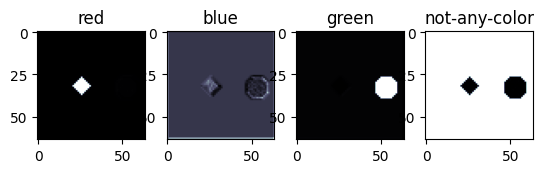
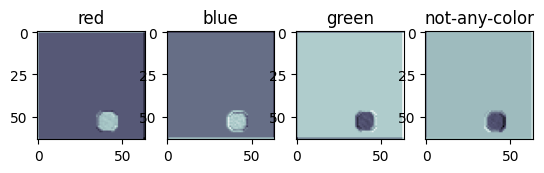
update

diff --git a/mvcl/percept/metanet.py b/mvcl/percept/metanet.py
@@ -14,6 +14,7 @@ from .propagation import GraphPropagation
 from .competition import Competition
 
 from .backbones import ResidualDenseNetwork, FeatureMapEncoder
+from rinarak.dklearn.cv.unet import UNet
 
 from rinarak.utils.tensor import gather_tensor, stats_summary, weighted_softmax, logit
 from torch_sparse import SparseTensor
@@ -102,6 +103,8 @@ class MetaNet(nn.Module):
         rdn_args = SimpleNamespace(g0=latent_dim  ,RDNkSize=3,n_colors=config.channel_dim,
                                RDNconfig=(4,3,16),scale=[2],no_upsampling=True)
         self.backbone = ResidualDenseNetwork(latent_dim)
+        #UNet(n_channels = config.channel_dim, n_classes = latent_dim, bilinear = True)
+        #ResidualDenseNetwork(latent_dim)
         #FeatureMapEncoder(config.channel_dim, z_dim = latent_dim)
         #RDN(rdn_args)
 
@@ -117,7 +120,7 @@ class MetaNet(nn.Module):
 
         """graph propagation on the grid and masks extraction"""
         self.propagator = GraphPropagation(num_iters = num_prop_itrs)
-        self.competition = Competition(num_masks = 10)
+        self.competition = Competition(num_masks = num_masks)
         
         kq_dim = 132
         self.ks_map = nn.Linear(latent_dim, kq_dim)
@@ -181,7 +184,10 @@ class MetaNet(nn.Module):
             y_features = torch.gather(flatten_qs, dim = 1, index = y_indices)
 
             """Calculate the logits between each node pairs"""
+
             logits = (x_features * y_features).sum(dim = -1) * (D ** -0.5)
+            #logits = 0.3 * ( (x_features.long() == 1.) .sum(dim = -1) ) .float()
+
             logits = logits.reshape([B,N,K])
 
             #all_logits.append(logits)
@@ -217,8 +223,13 @@ class MetaNet(nn.Module):
         v_seg = torch.gather(segment_targets, 1, v_indices)
 
         """Calculate the true connecivity between pairs of indices"""
+        import matplotlib.pyplot as plt
         valid_mask = u_seg != 0
-        connectivity = (u_seg == v_seg) #* valid_mask
+
+        #u_seg = u_seg != 0
+        #v_seg = v_seg != 0
+
+        connectivity = (u_seg == v_seg) * valid_mask
         connectivity = logit(connectivity)
         #connectivity = torch.softmax(connectivity, dim = -1)
         #y_true = connectivity / connectivity.max(-1, keepdim = True)[0]

diff --git a/main.py b/main.py
@@ -21,7 +21,7 @@ import torch.nn as nn
 dataset_dir = "/Users/melkor/Documents/datasets"
 
 argparser = argparse.ArgumentParser()
-argparser.add_argument("--expr_name",                   default = "KFT")
+argparser.add_argument("--expr_name",                   default = "KFT-UNet")
 argparser.add_argument("--dataset_dir",                 default = dataset_dir)
 # [Experiment configuration]
 argparser.add_argument("--domain_name",                 default = "demo")
@@ -35,11 +35,11 @@ argparser.add_argument("--optimizer",                   default = "Adam")
 argparser.add_argument("--lr",                          default = 2e-4)
 
 # [Elaborated training details]
-argparser.add_argument("--freeze_perception",           default = True)
-argparser.add_argument("--freeze_knowledge",            default = False)
+argparser.add_argument("--freeze_perception",           default = False)
+argparser.add_argument("--freeze_knowledge",            default = True)
 
 # [Save checkpoints at dir...]
-argparser.add_argument("--ckpt_itrs",                   default = 10)
+argparser.add_argument("--ckpt_itrs",                   default = 100)
 argparser.add_argument("--ckpt_dir",                    default = "checkpoints")
 argparser.add_argument("--load_ckpt_knowledge",         default = False)
 argparser.add_argument("--load_ckpt_percept",           default = False)

diff --git a/datasets/gestalt_dataset.py b/datasets/gestalt_dataset.py
@@ -1,0 +1,46 @@
+'''
+ # @ Author: Zongjing Li
+ # @ Create Time: 2024-02-25 02:44:44
+ # @ Modified by: Zongjing Li
+ # @ Modified time: 2024-02-25 02:44:57
+ # @ Description: This file is distributed under the MIT license.
+'''
+
+import torch
+from torch.utils.data import Dataset, DataLoader
+
+import numpy as np
+import matplotlib.pyplot as plt
+
+class GestaltGridPointDataset(Dataset):
+    def __init__(self, split = "train"):
+        super().__init__()
+    
+    def __len__(self): return 1
+
+    def __getitem__(self, idx):
+        return idx
+
+def grid_layout(resolution, dx, dy):
+    """generate a grid layout for the point
+    Args:
+        resolution: the input points grid size.
+        dx, dy: the difference between point pairs.
+    """
+    W, H = resolution[0], resolution[1]
+    x = torch.linspace(0, W - 1, W) * dx
+    y = torch.linspace(0, H - 1, H) * dy
+    x = x / x.max()
+    y = y / y.max()
+    grid_x, grid_y = torch.meshgrid([x, y])
+    grid = torch.cat([grid_x[..., None], grid_y[..., None]], dim = -1)
+    return grid
+
+if __name__ == "__main__":
+    # generate Gesltatl dataset
+    import os
+
+    grid = grid_layout([8, 8], 0.5, 1.)
+    plt.figure("figure", figsize = (5,4))
+    plt.scatter(grid[...,0], grid[..., 1])
+    plt.show()

diff --git a/grouping.py b/grouping.py
@@ -1,0 +1,50 @@
+from mvcl.percept.propagation import *
+from mvcl.percept.competition import *
+from mvcl.percept.metanet import generate_local_indices, MetaNet
+from mvcl.config import config
+
+dx, dy = (3,3)
+W, H ,C  = 64,64,3
+resolution = (W, H, C)
+
+propgator = GraphPropagation()
+extractor = Competition()
+
+class IdentityZJL(nn.Module):
+    def __Init__(self):
+        super().__init__()
+    def forward(self, x): return x
+
+config.backbone_feature_dim = C
+config.max_num_masks = 10
+net = MetaNet(config)
+net.backbone = IdentityZJL()
+net.ks_map = IdentityZJL()
+net.qs_map = IdentityZJL()
+
+ims = torch.zeros(resolution)
+
+nW = 2
+nH = 6
+
+for i in range(nW):
+    for j in range(nH):
+        cx = int( (i+1) * (W / (nW + 1) ) )
+        cy = int( (j+1) * (H / (nH + 1) ) )
+        ims[cx-dx:cx+dx,cy-dy:cy+dy,:] = 1.0
+
+pseduo_masks = torch.ones([1,1,64,64])
+percept_outputs = net(ims[None,...].permute(0,3,1,2), pseduo_masks)
+masks = percept_outputs["masks"]
+ends = percept_outputs["alive"]
+
+plt.figure("segments")
+for i in range(masks.shape[-1]):
+    plt.subplot(2,5,i + 1)
+    plt.imshow(masks[0,:,:,i] * ends[0,i,0])
+print(masks.shape)
+print(ends)
+
+plt.figure("gt input")
+plt.imshow(ims)
+plt.show()

diff --git a/datasets/sprites_base_dataset.py b/datasets/sprites_base_dataset.py
@@ -165,15 +165,15 @@ def generate_sprites(num_scenes = 10, resolution = (64,64), split = "train", dat
     for scene_id in range(num_scenes):
         scene = {}
         
-        num_objs = random.randint(0,max_num_objs) # include the interval ends
+        num_objs = random.randint(1,max_num_objs) # include the interval ends
         width, height = resolution
         canvas = np.zeros([width,height,3])
         masks = np.zeros([width, height])
         scene_annotation = {"color":[],"shape":[]}
 
         # background information
-        scene_annotation["color"].append("not-any-color")
-        scene_annotation["shape"].append("not-any-shape")
+        #scene_annotation["color"].append("not-any-color")
+        #scene_annotation["shape"].append("not-any-shape")
         for idx in range(num_objs):
 
             # choose the size of the sprite
